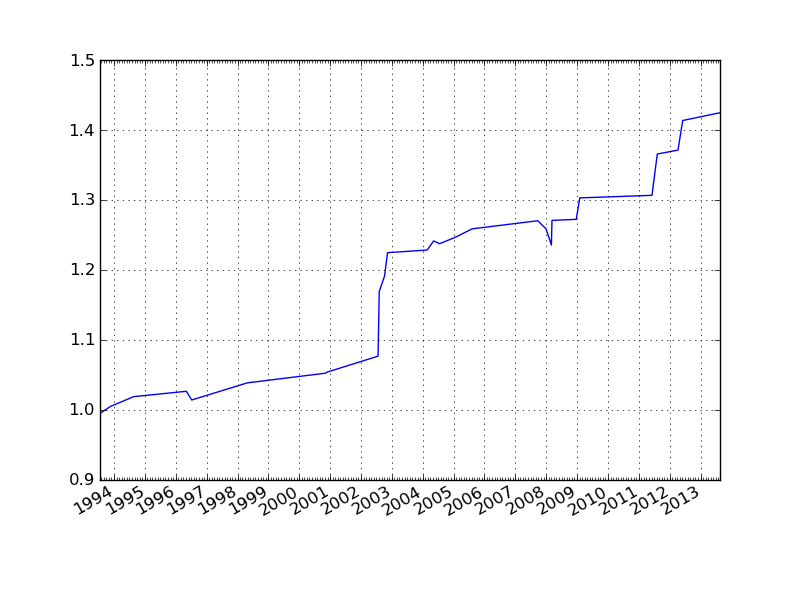
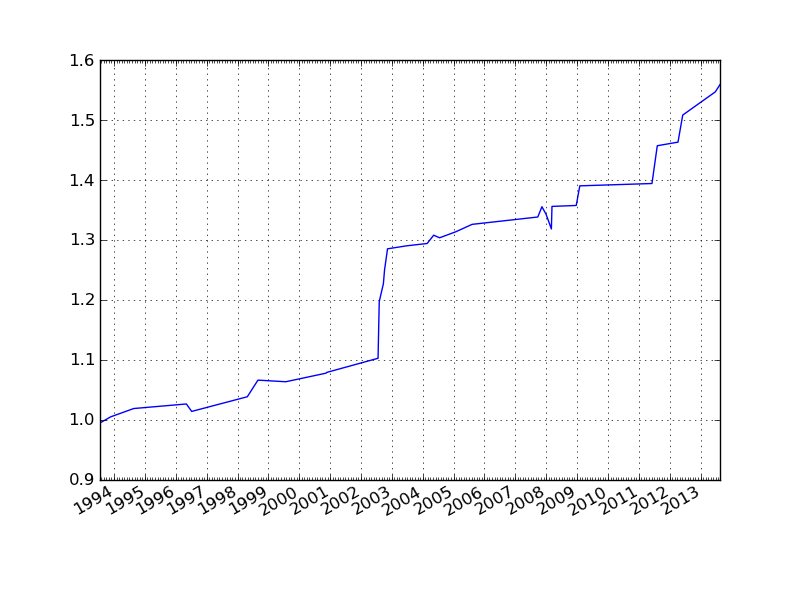
fixed profit factor calculation

diff --git a/quant_sim/reporting/reports/creport.html b/quant_sim/reporting/reports/creport.html
@@ -43,7 +43,7 @@
             <TR>
                 <TH>Filter</TH><TH>N</TH><TH>N/Yr</TH><TH>Win_Perc</TH><TH>Profit_Factor</TH><TH>Mean_return</TH><TH>StDev</TH><TH>ROI</TH><TH>ROI Ann</TH><TH>Max_DD</TH>
             </TR>
-            <TR> <TD>All</TD><TD>28 </TD> <TD>1.3614 </TD><TD>0.8214 </TD> <TD>39.3863 </TD> <TD>0.01291 </TD><TD>0.0197 </TD> <TD>1.4246 </TD> <TD>1.0174 </TD><TD>-0.0273 </TD></TR>
+            <TR> <TD>All</TD><TD>34 </TD> <TD>1.6532 </TD><TD>0.8235 </TD> <TD>9.9946 </TD> <TD>0.01331 </TD><TD>0.0185 </TD> <TD>1.5589 </TD> <TD>1.0218 </TD><TD>-0.0273 </TD></TR>
        </TABLE>
   
         <h3>Winners / Losers</h3>
@@ -51,8 +51,8 @@
             <TR>
                 <TH> </TH><TH>N</TH><TH>Mean_return</TH><TH>StDev</TH><TH>Max_in_Row</TH><TH>Max_Ret</TH>
             </TR>
-            <TR> <TD>Winners</TD><TD>23 </TD> <TD>0.01779 </TD><TD>0.0182 </TD><TD>9  </TD><TD>0.0857 </TD></TR>
-            <TR> <TD>Losers</TD><TD>5 </TD> <TD>-0.00956 </TD><TD>0.0054 <TD>2 </TD><TD>-0.0183 </TD></TR>
+            <TR> <TD>Winners</TD><TD>28 </TD> <TD>0.01796 </TD><TD>0.0169 </TD><TD>10  </TD><TD>0.0857 </TD></TR>
+            <TR> <TD>Losers</TD><TD>6 </TD> <TD>-0.00839 </TD><TD>0.0056 <TD>2 </TD><TD>-0.0183 </TD></TR>
         </TABLE>  
         
         <img src="3x lower h l c.png" alt="Equity Curve" width="700" height="350">
@@ -136,6 +136,28 @@
                     <TR>
                         <TD>7</TD>
                         <TD>SPY</TD>
+                        <TD>1998-08-31</TD>
+                        <TD>10</TD>
+                        <TD>96.0</TD>
+                        <TD>1998-09-03</TD>
+                        <TD>10</TD>
+                        <TD>98.56</TD>
+                        <TD bgcolor=" Green ">2.667%</TD>
+                    </TR>
+                    <TR>
+                        <TD>8</TD>
+                        <TD>SPY</TD>
+                        <TD>1999-07-26</TD>
+                        <TD>10</TD>
+                        <TD>134.75</TD>
+                        <TD>1999-07-29</TD>
+                        <TD>10</TD>
+                        <TD>134.41</TD>
+                        <TD bgcolor=" Red ">-0.252%</TD>
+                    </TR>
+                    <TR>
+                        <TD>9</TD>
+                        <TD>SPY</TD>
                         <TD>2000-11-13</TD>
                         <TD>10</TD>
                         <TD>135.56</TD>
@@ -145,7 +167,7 @@
                         <TD bgcolor=" Green ">1.343%</TD>
                     </TR>
                     <TR>
-                        <TD>8</TD>
+                        <TD>10</TD>
                         <TD>SPY</TD>
                         <TD>2000-11-20</TD>
                         <TD>10</TD>
@@ -156,7 +178,7 @@
                         <TD bgcolor=" Green ">0.111%</TD>
                     </TR>
                     <TR>
-                        <TD>9</TD>
+                        <TD>11</TD>
                         <TD>SPY</TD>
                         <TD>2002-07-22</TD>
                         <TD>10</TD>
@@ -167,7 +189,7 @@
                         <TD bgcolor=" Green ">2.190%</TD>
                     </TR>
                     <TR>
-                        <TD>10</TD>
+                        <TD>12</TD>
                         <TD>SPY</TD>
                         <TD>2002-08-05</TD>
                         <TD>10</TD>
@@ -178,7 +200,18 @@
                         <TD bgcolor=" Green ">8.571%</TD>
                     </TR>
                     <TR>
-                        <TD>11</TD>
+                        <TD>13</TD>
+                        <TD>SPY</TD>
+                        <TD>2002-09-23</TD>
+                        <TD>10</TD>
+                        <TD>83.66</TD>
+                        <TD>2002-09-26</TD>
+                        <TD>10</TD>
+                        <TD>85.73</TD>
+                        <TD bgcolor=" Green ">2.474%</TD>
+                    </TR>
+                    <TR>
+                        <TD>14</TD>
                         <TD>SPY</TD>
                         <TD>2002-10-07</TD>
                         <TD>10</TD>
@@ -189,7 +222,7 @@
                         <TD bgcolor=" Green ">1.896%</TD>
                     </TR>
                     <TR>
-                        <TD>12</TD>
+                        <TD>15</TD>
                         <TD>SPY</TD>
                         <TD>2002-11-11</TD>
                         <TD>10</TD>
@@ -200,7 +233,18 @@
                         <TD bgcolor=" Green ">2.799%</TD>
                     </TR>
                     <TR>
-                        <TD>13</TD>
+                        <TD>16</TD>
+                        <TD>SPY</TD>
+                        <TD>2003-06-23</TD>
+                        <TD>10</TD>
+                        <TD>98.42</TD>
+                        <TD>2003-06-26</TD>
+                        <TD>10</TD>
+                        <TD>98.8</TD>
+                        <TD bgcolor=" Green ">0.386%</TD>
+                    </TR>
+                    <TR>
+                        <TD>17</TD>
                         <TD>SPY</TD>
                         <TD>2004-02-23</TD>
                         <TD>10</TD>
@@ -211,7 +255,7 @@
                         <TD bgcolor=" Green ">0.305%</TD>
                     </TR>
                     <TR>
-                        <TD>14</TD>
+                        <TD>18</TD>
                         <TD>SPY</TD>
                         <TD>2004-05-10</TD>
                         <TD>10</TD>
@@ -222,7 +266,7 @@
                         <TD bgcolor=" Green ">1.066%</TD>
                     </TR>
                     <TR>
-                        <TD>15</TD>
+                        <TD>19</TD>
                         <TD>SPY</TD>
                         <TD>2004-07-19</TD>
                         <TD>10</TD>
@@ -233,7 +277,7 @@
                         <TD bgcolor=" Red ">-0.327%</TD>
                     </TR>
                     <TR>
-                        <TD>16</TD>
+                        <TD>20</TD>
                         <TD>SPY</TD>
                         <TD>2005-01-24</TD>
                         <TD>10</TD>
@@ -244,7 +288,7 @@
                         <TD bgcolor=" Green ">0.755%</TD>
                     </TR>
                     <TR>
-                        <TD>17</TD>
+                        <TD>21</TD>
                         <TD>SPY</TD>
                         <TD>2005-08-08</TD>
                         <TD>10</TD>
@@ -255,7 +299,7 @@
                         <TD bgcolor=" Green ">0.954%</TD>
                     </TR>
                     <TR>
-                        <TD>18</TD>
+                        <TD>22</TD>
                         <TD>SPY</TD>
                         <TD>2007-09-24</TD>
                         <TD>10</TD>
@@ -266,7 +310,18 @@
                         <TD bgcolor=" Green ">0.923%</TD>
                     </TR>
                     <TR>
-                        <TD>19</TD>
+                        <TD>23</TD>
+                        <TD>SPY</TD>
+                        <TD>2007-11-12</TD>
+                        <TD>10</TD>
+                        <TD>143.7</TD>
+                        <TD>2007-11-15</TD>
+                        <TD>10</TD>
+                        <TD>145.54</TD>
+                        <TD bgcolor=" Green ">1.280%</TD>
+                    </TR>
+                    <TR>
+                        <TD>24</TD>
                         <TD>SPY</TD>
                         <TD>2007-12-31</TD>
                         <TD>10</TD>
@@ -277,7 +332,7 @@
                         <TD bgcolor=" Red ">-0.923%</TD>
                     </TR>
                     <TR>
-                        <TD>20</TD>
+                        <TD>25</TD>
                         <TD>SPY</TD>
                         <TD>2008-03-03</TD>
                         <TD>10</TD>
@@ -288,7 +343,7 @@
                         <TD bgcolor=" Red ">-1.828%</TD>
                     </TR>
                     <TR>
-                        <TD>21</TD>
+                        <TD>26</TD>
                         <TD>SPY</TD>
                         <TD>2008-03-10</TD>
                         <TD>10</TD>
@@ -299,7 +354,7 @@
                         <TD bgcolor=" Green ">2.852%</TD>
                     </TR>
                     <TR>
-                        <TD>22</TD>
+                        <TD>27</TD>
                         <TD>SPY</TD>
                         <TD>2008-12-22</TD>
                         <TD>10</TD>
@@ -310,7 +365,7 @@
                         <TD bgcolor=" Green ">0.115%</TD>
                     </TR>
                     <TR>
-                        <TD>23</TD>
+                        <TD>28</TD>
                         <TD>SPY</TD>
                         <TD>2009-02-02</TD>
                         <TD>10</TD>
@@ -321,7 +376,7 @@
                         <TD bgcolor=" Green ">2.410%</TD>
                     </TR>
                     <TR>
-                        <TD>24</TD>
+                        <TD>29</TD>
                         <TD>SPY</TD>
                         <TD>2011-06-06</TD>
                         <TD>10</TD>
@@ -332,7 +387,7 @@
                         <TD bgcolor=" Green ">0.279%</TD>
                     </TR>
                     <TR>
-                        <TD>25</TD>
+                        <TD>30</TD>
                         <TD>SPY</TD>
                         <TD>2011-08-08</TD>
                         <TD>10</TD>
@@ -343,7 +398,7 @@
                         <TD bgcolor=" Green ">4.516%</TD>
                     </TR>
                     <TR>
-                        <TD>26</TD>
+                        <TD>31</TD>
                         <TD>SPY</TD>
                         <TD>2012-04-09</TD>
                         <TD>10</TD>
@@ -354,7 +409,7 @@
                         <TD bgcolor=" Green ">0.412%</TD>
                     </TR>
                     <TR>
-                        <TD>27</TD>
+                        <TD>32</TD>
                         <TD>SPY</TD>
                         <TD>2012-06-04</TD>
                         <TD>10</TD>
@@ -365,7 +420,18 @@
                         <TD bgcolor=" Green ">3.084%</TD>
                     </TR>
                     <TR>
-                        <TD>28</TD>
+                        <TD>33</TD>
+                        <TD>SPY</TD>
+                        <TD>2013-06-24</TD>
+                        <TD>10</TD>
+                        <TD>157.06</TD>
+                        <TD>2013-06-27</TD>
+                        <TD>10</TD>
+                        <TD>161.08</TD>
+                        <TD bgcolor=" Green ">2.560%</TD>
+                    </TR>
+                    <TR>
+                        <TD>34</TD>
                         <TD>SPY</TD>
                         <TD>2013-08-19</TD>
                         <TD>10</TD>

diff --git a/quant_sim/stats_mgmt/stat_library.py b/quant_sim/stats_mgmt/stat_library.py
@@ -90,8 +90,11 @@ class Profit_Fact(Stat):
         win_perc = self.up_n / float(self.n)
         if win_perc == 1.0 or self.theo_dn_sum == 0.0: 
             return 'inf'
-        return ((win_perc * (self.theo_up_sum / self.n)) / 
-                 -((1.0 - win_perc) * (self.theo_dn_sum / self.n)))
+        elif win_perc == 0.0:
+            return 0.0
+        print self.n, self.up_n, win_perc,(self.theo_dn_sum / (self.n - self.up_n))
+        return ((win_perc * (self.theo_up_sum / self.up_n)) / 
+                 -((1.0 - win_perc) * (self.theo_dn_sum / (self.n-self.up_n))))
 
 class Max_DD(Stat):
     def initialize(self, *args, **kwargs):

diff --git a/quant_sim/examples/example_algo.py b/quant_sim/examples/example_algo.py
@@ -171,9 +171,7 @@ class Alg_008(Algorithm):
         eod1 = env.get(sid,1)
         metric = self.metrics['lh-ll-lc']
         shares = math.floor(self.order_mngr.active_pos['all']['bal'] / eod0.o)
-        if metric > 0:
-            print eod0.d, metric, self.metrics.funcs['lh-ll-lc'].cache
-        if metric == 3 and eod0.dow == 0:
+        if metric >= 3 and eod0.dow == 0 and self.order_mngr.active_pos['all']['n'] == 0:
             self.order(sid, 10 , eod0.c)
         if self.order_mngr.active_pos['all']['n'] > 0:
             for pid,pos in self.order_mngr.active_pos[sid]['positions'].items():
